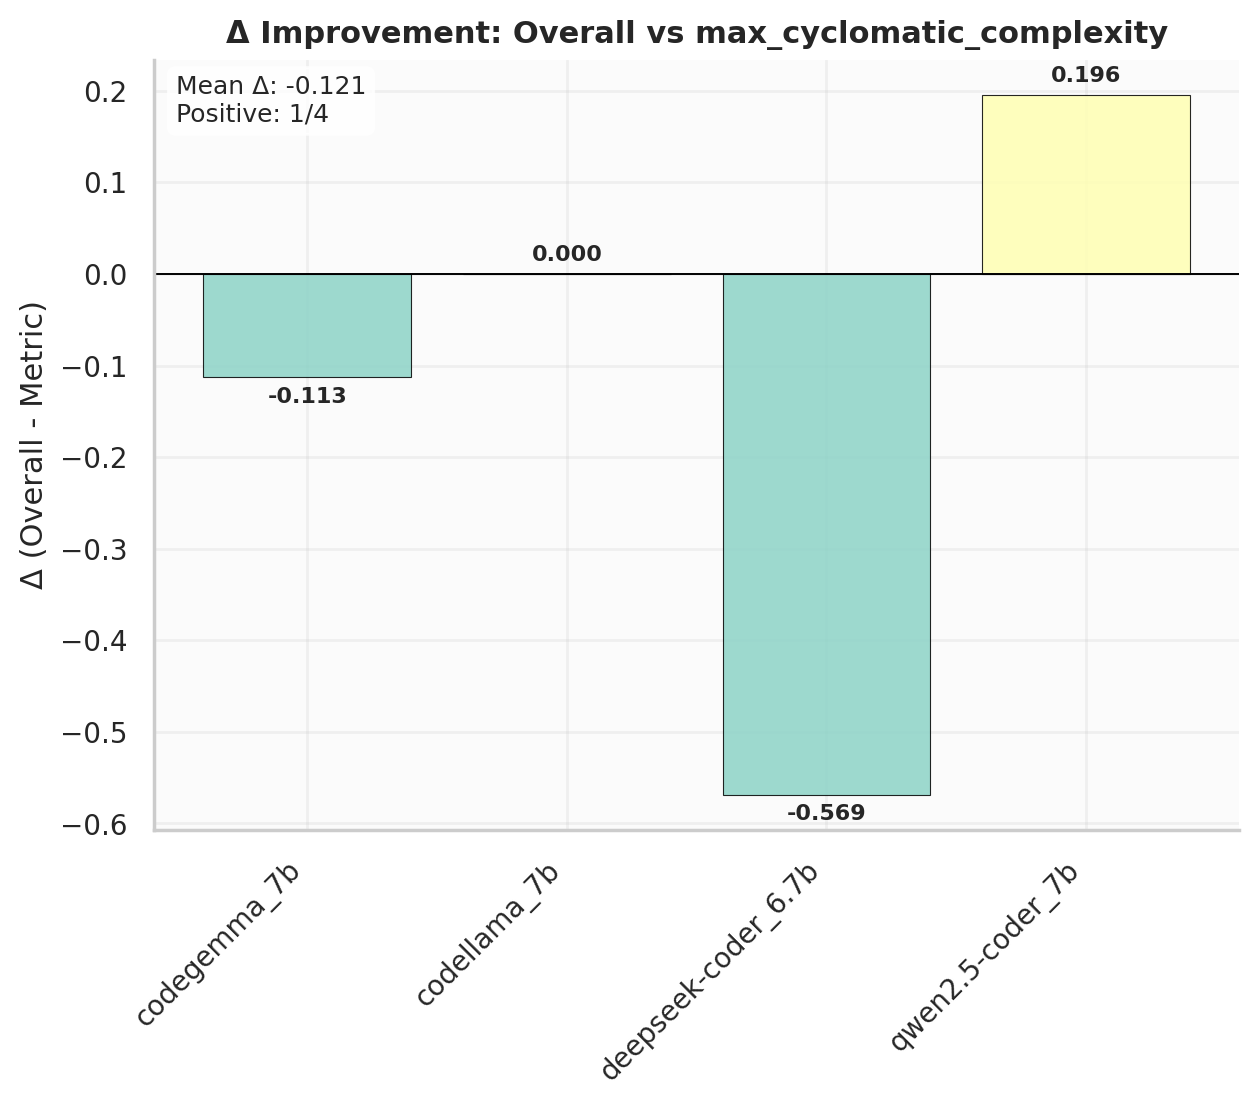
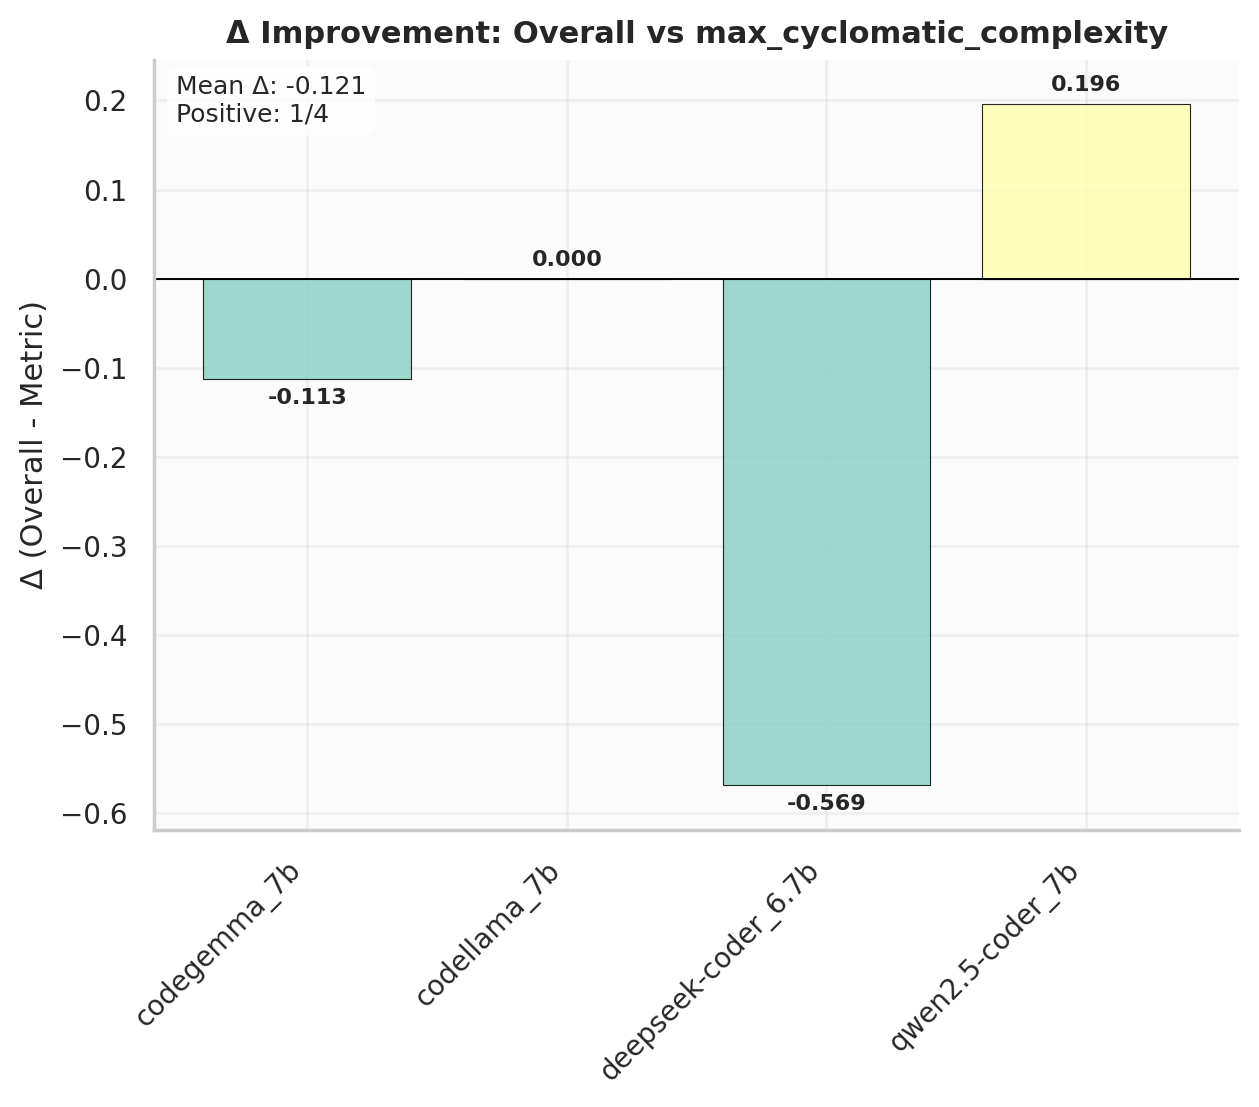
Regenerated graphs

diff --git a/scripts/overall_score.py b/scripts/overall_score.py
@@ -458,6 +458,9 @@ def _plot_delta_core(ax, model_stats_norm, metric, model_color_map):
     """Core plotting for delta bars for a given metric on axis ax."""
     models = model_stats_norm["model"].tolist()
     deltas = (model_stats_norm["overall_score"] - model_stats_norm[metric]).values
+    # Expand Y-axis
+    pad = 0.05
+    ax.set_ylim(min(deltas) - pad, max(deltas) + pad)
 
     # Colors: use green/red but keep alpha consistent; we still have palette for marker consistency
     # Use Set3 palette colors for consistency (greenish/red tones)
